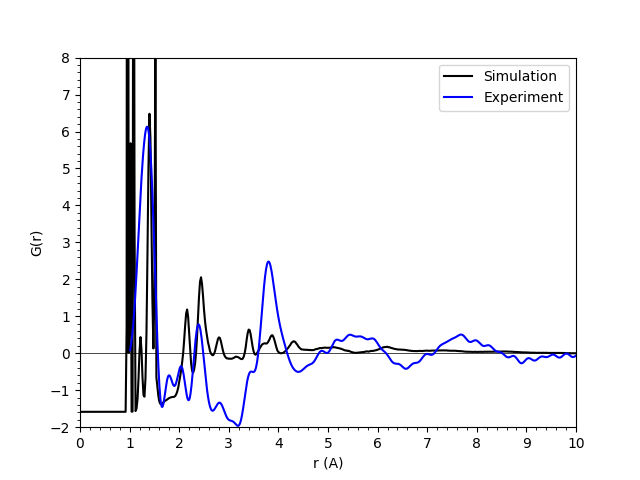
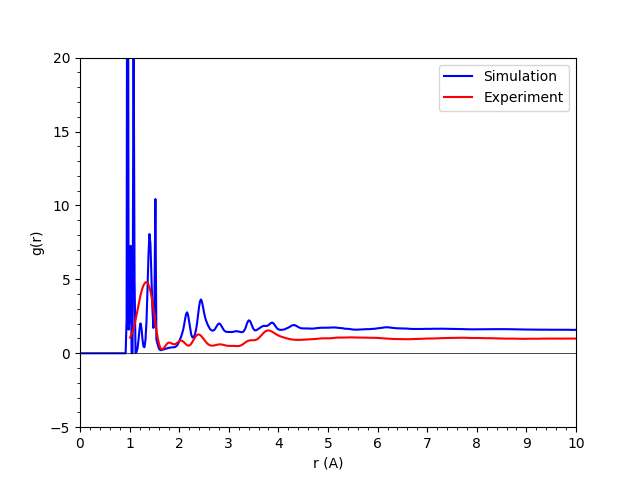
updated rdfs

diff --git a/protonated/walls/hydration/gromacs/long_hydration/rdfs/plot_pdf.py b/protonated/walls/hydration/gromacs/long_hydration/rdfs/plot_pdf.py
@@ -18,17 +18,17 @@ args = parser.parse_args()
 xvg = gro.fileformats.XVG(args.xvg)
 sim_data = xvg.array
 r = sim_data[0,:] * 10
-rdf = sim_data[1,:] - sim_data[1,np.where(r == 10)[0]]
+rdf = sim_data[1,:] #- sim_data[1,np.where(r == 10)[0]]
 
 fig, ax = plt.subplots(1,1)
-plt.plot(r, rdf, c='k', label='Simulation')
-plt.xlim(0,10)
-plt.ylim(-2,8)
-plt.ylabel('G(r)')
+plt.plot(r, rdf, c='b', label='Simulation')
+# plt.xlim(0,10)
+plt.ylim(-5,20)
+plt.ylabel('g(r)')
 plt.xlabel('r (A)')
 
-ax.yaxis.set_major_locator(MultipleLocator(1))
-ax.yaxis.set_minor_locator(MultipleLocator(0.2))
+ax.yaxis.set_major_locator(MultipleLocator(5))
+ax.yaxis.set_minor_locator(MultipleLocator(1))
 ax.xaxis.set_major_locator(MultipleLocator(1))
 ax.xaxis.set_minor_locator(MultipleLocator(0.2))
 ax.axhline(c='k', lw=0.5)
@@ -45,12 +45,15 @@ max_idx = np.where(exp_data[:,0] == np.max(exp_data[:,0]))[0]
 ## Data is from min_idx[0] to max_idx[0]
 ## Base line is from min_idx[1] to max_idx[1]
 
+# number density?
+rho = 0.0953
+
 clean = np.zeros((max_idx[0] - min_idx[0], 2))
 clean[:,0] = exp_data[min_idx[0]:max_idx[0],0] + 1
-clean[:,1] = exp_data[min_idx[0]:max_idx[0],1]
+clean[:,1] = exp_data[min_idx[0]:max_idx[0],1] / (4*np.pi*clean[:,0]*rho) + 1
 
 # Plot the data
-plt.plot(clean[:,0], clean[:,1], c='b', label='Experiment') # custom labels
+plt.plot(clean[:,0], clean[:,1], c='r', label='Experiment') # custom labels
 plt.legend()
 
 # plt.savefig(args.file.split('.')[0] + '_sim_compare.png')
